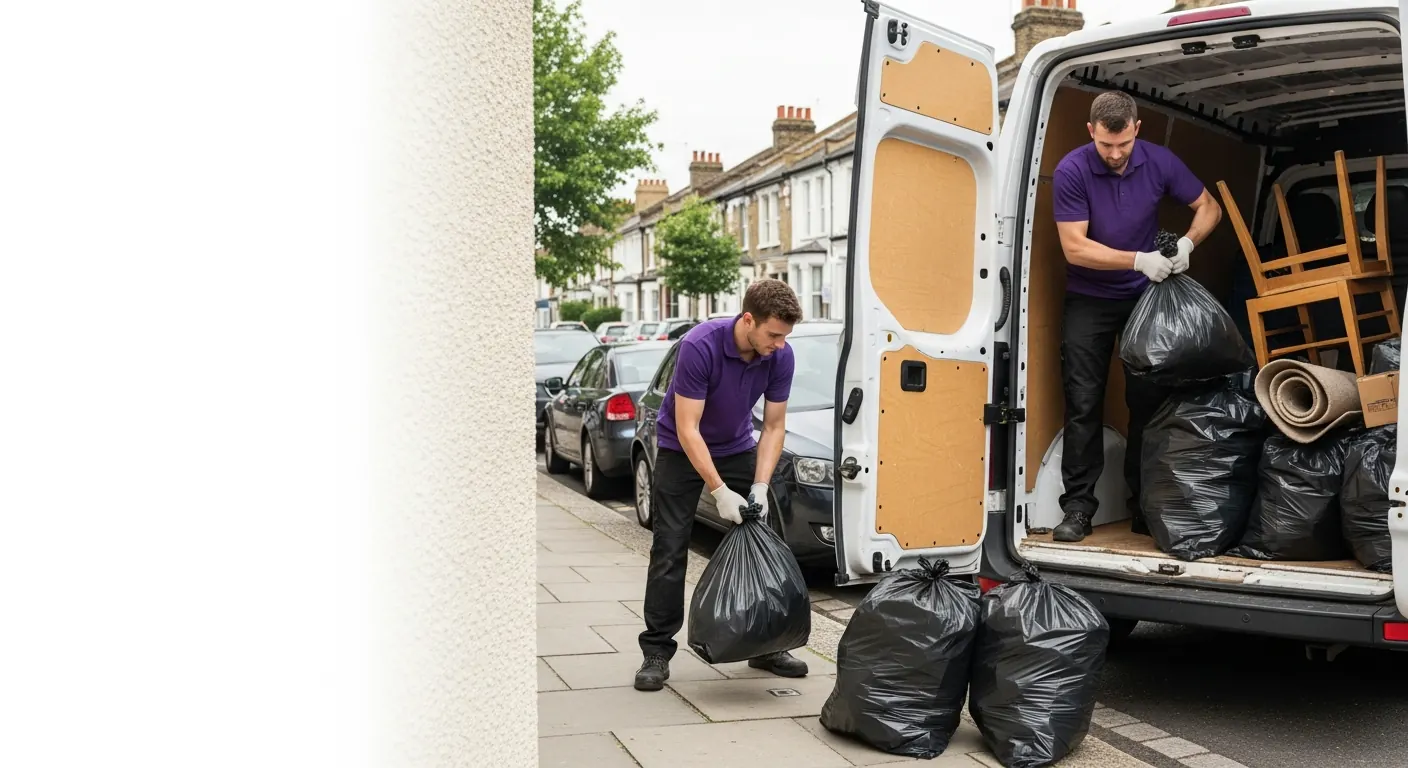
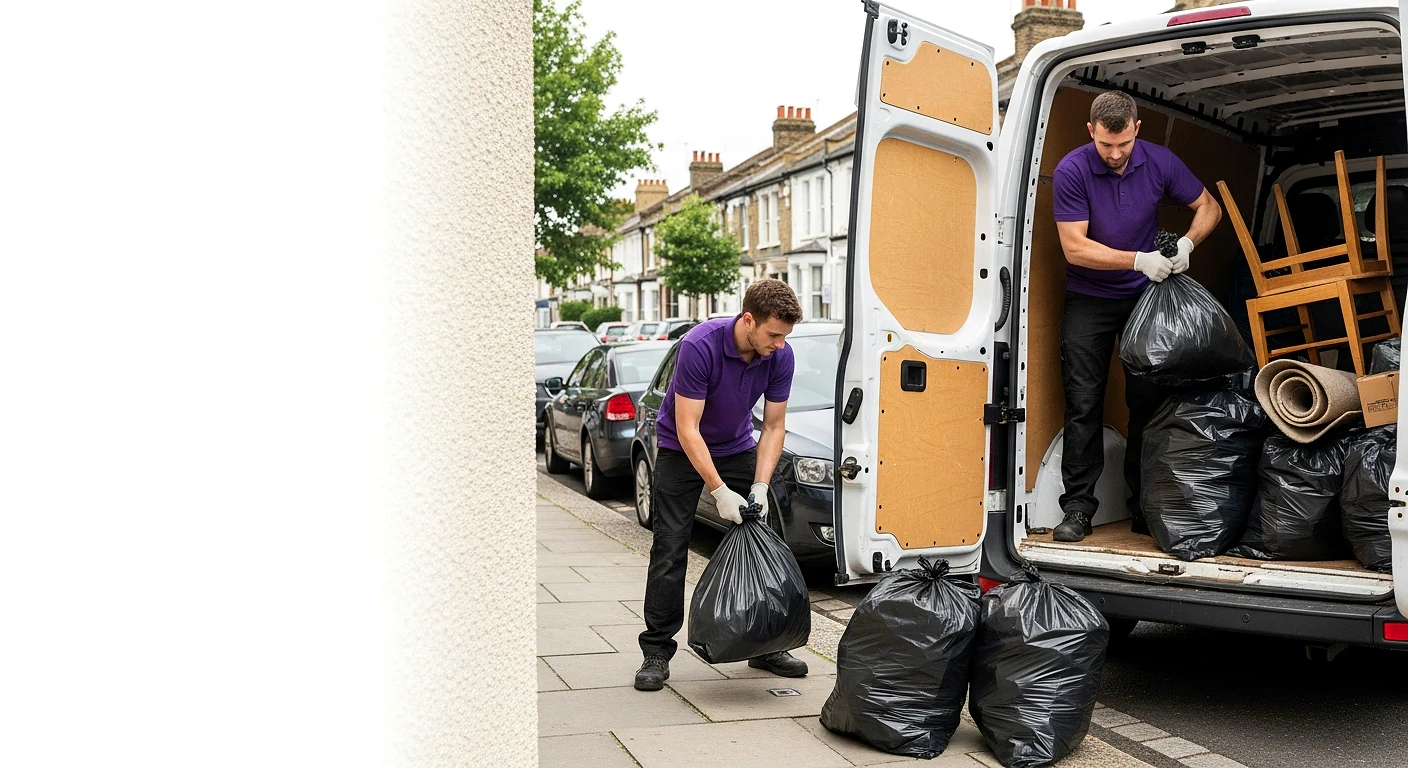
Add ability to include multiple stops for waste removal bookings
Update WasteRemovalFlow to include an ExtraStopsSection component for multiple collection addresses, improve the sharpness of the waste hero image, and fix the favicon to display correctly without a white background.

Replit-Commit-Author: Agent
Replit-Commit-Session-Id: 07bf3fe5-6776-4466-8bc2-98fb9ea8217c
Replit-Commit-Checkpoint-Type: full_checkpoint
Replit-Commit-Event-Id: b246abfc-5e2c-4320-b04c-617d01ae43af
Replit-Commit-Screenshot-Url: https://storage.googleapis.com/screenshot-production-us-central1/74eddbf7-d890-45b1-ac5e-73575f91ee9f/07bf3fe5-6776-4466-8bc2-98fb9ea8217c/0RvGGiW
Replit-Helium-Checkpoint-Created: true

diff --git a/artifacts/move4u/src/components/booking/WasteRemovalFlow.tsx b/artifacts/move4u/src/components/booking/WasteRemovalFlow.tsx
@@ -1,6 +1,6 @@
 import { useEffect, useRef, useState } from "react";
 import { BedDouble, Refrigerator, Circle, Armchair, CheckCircle, ChevronLeft, ChevronDown, Info, Plus, Minus, Route, Check, Hash, Sparkles } from "lucide-react";
-import { WASTE_LOADS, WASTE_EXTRA_ITEMS, CONGESTION_CHARGE, OUTSIDE_M25_RATE } from "@/data/constants";
+import { WASTE_LOADS, WASTE_EXTRA_ITEMS, CONGESTION_CHARGE, OUTSIDE_M25_RATE, EXTRA_STOP_CHARGE } from "@/data/constants";
 import { countCongestionEntries } from "@/lib/congestionZone";
 import { outsideM25MilesForRoute } from "@/lib/m25";
 import { submitBooking, uploadPhotos } from "@/lib/api";
@@ -11,6 +11,7 @@ import StairsAccessSection, {
   getFloorChargeFromValue,
   getFloorLabelFromValue,
 } from "./StairsAccessSection";
+import ExtraStopsSection, { type ExtraStop } from "./ExtraStopsSection";
 
 /** Flat surcharge for restricted-access pickups (long carry, narrow lane, etc). */
 const RESTRICTED_ACCESS_SURCHARGE = 10;
@@ -84,6 +85,11 @@ export default function WasteRemovalFlow({ onBack, initialPickup = "" }: WasteRe
   const [liftValue, setLiftValue] = useState<string>("");
   const [floorValue, setFloorValue] = useState<string>("lift");
   const [restrictedAccess, setRestrictedAccess] = useState(false);
+  // Additional collection stops — mirrors the House-Moving flow so a
+  // single waste booking can cover multiple pickup addresses on one route.
+  // Each stop carries its own address + stairs/lift/floor answers and is
+  // priced exactly the same way (per-stop fee + per-stop floor surcharge).
+  const [extraStops, setExtraStops] = useState<ExtraStop[]>([]);
   const [notes, setNotes] = useState("");
   const [photos, setPhotos] = useState<File[]>([]);
   const [step, setStep] = useState<"details" | "summary" | "final" | "submitted">("details");
@@ -131,16 +137,29 @@ export default function WasteRemovalFlow({ onBack, initialPickup = "" }: WasteRe
   const extrasTotal = selectedExtras.reduce((sum, e) => sum + e.price * e.qty, 0);
   const stairsCharge = getFloorChargeFromValue(floorValue);
   const accessCharge = restrictedAccess ? RESTRICTED_ACCESS_SURCHARGE : 0;
-  const surchargeTotal = stairsCharge + accessCharge;
-  // Congestion Charge — detected from the pickup postcode (waste flow has
-  // no customer drop-off — the load goes to a disposal site). Added on top
-  // of the calculated total but BEFORE the minimum-charge floor so a CCZ
-  // pickup never gets absorbed by the £60 minimum.
-  const congestionEntries = countCongestionEntries([pickup]);
+  // Per-stop floor surcharges — only count stops that actually have an
+  // address typed in, so an empty placeholder card never inflates the price.
+  const cleanExtraStops = extraStops.filter((s) => s.address.trim());
+  const extraStopsFloorCharge = cleanExtraStops.reduce(
+    (sum, s) => sum + getFloorChargeFromValue(s.floorValue),
+    0,
+  );
+  // Flat per-stop fee — each additional collection point costs an extra
+  // £EXTRA_STOP_CHARGE on top of any per-stop stairs surcharge. Same model
+  // and constant the House-Moving (StandardBookingFlow) uses.
+  const extraStopsFee = cleanExtraStops.length * EXTRA_STOP_CHARGE;
+  const surchargeTotal =
+    stairsCharge + accessCharge + extraStopsFloorCharge + extraStopsFee;
+  // Congestion Charge — counted across the pickup AND every additional
+  // collection address so multi-stop waste runs that touch the CCZ are
+  // priced correctly. Added on top of the calculated total but BEFORE the
+  // minimum-charge floor so a CCZ pickup never gets absorbed by the £60 min.
+  const allAddresses = [pickup, ...cleanExtraStops.map((s) => s.address)];
+  const congestionEntries = countCongestionEntries(allAddresses);
   const congestionCharge = congestionEntries * CONGESTION_CHARGE;
-  // Outside-M25 mileage estimate (one-way to/from disposal). Pickup outside
-  // the M25 means extra travel — billed at £1/mile on top of the base.
-  const outsideM25Miles = outsideM25MilesForRoute([pickup]);
+  // Outside-M25 mileage estimate — routed across pickup + every extra stop.
+  // Outside-M25 portions are billed at £1/mile on top of the base.
+  const outsideM25Miles = outsideM25MilesForRoute(allAddresses);
   const outsideM25Charge = outsideM25Miles * OUTSIDE_M25_RATE;
   const calculatedTotal = loadPrice + extrasTotal + surchargeTotal;
   // Minimum charge only kicks in once the user has actually picked something
@@ -230,6 +249,23 @@ export default function WasteRemovalFlow({ onBack, initialPickup = "" }: WasteRe
               .join(", ");
             // Upload photos first, then submit with their serving URLs
             const photoUrls = await uploadPhotos(photos);
+            // Pre-format every additional collection address with its
+            // own stairs/lift line so the team sees the full pickup
+            // route at a glance in Telegram + Sheets — same shape as
+            // the House-Moving formattedStops payload.
+            const formattedExtraStops = cleanExtraStops.map((s) => {
+              const stopFloor = getFloorChargeFromValue(s.floorValue);
+              const accessLabel = getFloorLabelFromValue(s.floorValue);
+              const parts: string[] = [];
+              if (accessLabel && accessLabel !== "—") parts.push(accessLabel);
+              if (stopFloor > 0) parts.push(`+£${stopFloor}`);
+              return parts.length
+                ? `${s.address.trim()} — ${parts.join(" ")}`
+                : s.address.trim();
+            });
+            const extraAddressFormatted = formattedExtraStops
+              .map((s, i) => `${i + 1}. ${s}`)
+              .join(" | ");
             return await submitBooking({
               service: "Waste Removal",
               name,
@@ -240,7 +276,7 @@ export default function WasteRemovalFlow({ onBack, initialPickup = "" }: WasteRe
               pickupDetails: accessNotes,
               dropoff: "",
               dropoffDetails: "",
-              extraAddress: "",
+              extraAddress: extraAddressFormatted,
               vanSize: "",
               helpOption: "",
               peopleCount: "",
@@ -253,6 +289,9 @@ export default function WasteRemovalFlow({ onBack, initialPickup = "" }: WasteRe
               notes: [
                 notes,
                 `Load: ${loadLabel}`,
+                extraStopsFee > 0
+                  ? `Additional stops: ${cleanExtraStops.length} × £${EXTRA_STOP_CHARGE} = +£${extraStopsFee}`
+                  : null,
                 minChargeApplied ? `Min charge applied (calc £${calculatedTotal} → £${baseTotal})` : null,
                 congestionCharge > 0
                   ? `Congestion Charge: ${congestionEntries} × £${CONGESTION_CHARGE} = +£${congestionCharge}`
@@ -405,6 +444,28 @@ export default function WasteRemovalFlow({ onBack, initialPickup = "" }: WasteRe
               ? { label: `${getFloorLabelFromValue(floorValue)} — no lift`, value: `+£${stairsCharge}` }
               : null,
             restrictedAccess ? { label: "Restricted access", value: `+£${RESTRICTED_ACCESS_SURCHARGE}` } : null,
+            // Additional collection stops — list each address, then the flat
+            // per-stop fee and any per-stop floor surcharge so the customer
+            // can see exactly what each extra pickup is adding to the total.
+            ...cleanExtraStops.flatMap((s, i) => {
+              const stopFloor = getFloorChargeFromValue(s.floorValue);
+              const rows: Array<{ label: string; value: string }> = [
+                { label: `Additional stop ${i + 1}`, value: s.address },
+              ];
+              if (stopFloor > 0) {
+                rows.push({
+                  label: `Stop ${i + 1} — ${getFloorLabelFromValue(s.floorValue)}, no lift`,
+                  value: `+£${stopFloor}`,
+                });
+              }
+              return rows;
+            }),
+            extraStopsFee > 0
+              ? {
+                  label: `Additional stops × ${cleanExtraStops.length}`,
+                  value: `+£${extraStopsFee}`,
+                }
+              : null,
             minChargeApplied
               ? { label: "Minimum charge adjustment", value: `+£${WASTE_MIN_CHARGE - calculatedTotal}` }
               : null,
@@ -508,6 +569,16 @@ export default function WasteRemovalFlow({ onBack, initialPickup = "" }: WasteRe
               These small surcharges cover the extra time and effort needed when items
               must be carried up stairs or over longer distances from the van.
             </p>
+          </div>
+
+          {/* Additional collection stops — same minimal UI as House-Moving:
+              one-line "Additional stop (optional)" header + "+ Add another
+              stop" button. Adding a stop reveals a card with the same
+              address autocomplete + stairs/lift/floor questions used for
+              the main pickup, and each extra stop is priced into the total
+              automatically (per-stop fee + per-stop floor surcharge). */}
+          <div className="mt-4">
+            <ExtraStopsSection stops={extraStops} setStops={setExtraStops} />
           </div>
         </div>
 